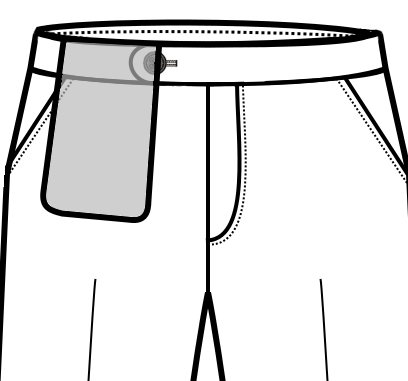
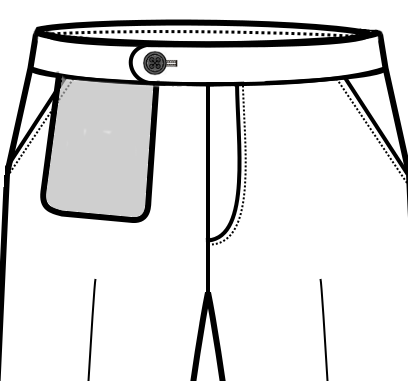
changes

Changed region(s): [[0.1176, 0.0866, 0.4118, 0.231]]

diff --git a/application/controllers/CustomApi.php b/application/controllers/CustomApi.php
@@ -1171,18 +1171,8 @@ class CustomApi extends REST_Controller {
                         "backbeltloop" => "true",
                         "show_buttons" => "true",
                         "overlay" => ["pant_waistbandoverlay.png",  "pant_waistband0001_overlay.png"]
-                    )
-                    , array(
-                        "status" => "0",
-                        "title" => "Standard 2 Hooks",
-                        "elements" => ["pant_waistbandb0001.png",],
-                        "customization_category_id" => "4",
-                        "image" => "pant_elements/waistband/waistband2h.png",
-                        "backbeltloop" => "true",
-                        "show_buttons" => "true",
-                        "adjustmentposition" => "    margin-top: -3px;",
-                        "overlay" => ["pant_waistbandboverlay.png", "pant_waistbandb0001_overlay.png"]
                     ),
+                    
                     array(
                         "status" => "0",
                         "title" => "Center 1 Button",
@@ -1191,16 +1181,6 @@ class CustomApi extends REST_Controller {
                         "image" => "pant_elements/waistband/waistbandc1b.png",
                         "show_buttons" => "true",
                         "overlay" => ["pant_waistband_moverlay.png", "pant_waistband_m1_button.png", "pant_waistband_m0001overlay.png"]
-                    ), array(
-                        "status" => "0",
-                        "title" => "Center 2 Buttons",
-                        "elements" => ["pant_waistband_mb0001.png",],
-                        "customization_category_id" => "4",
-                        "image" => "pant_elements/waistband/waistbandc2b.png",
-                        "backbeltloop" => "true",
-                        "show_buttons" => "true",
-                        "adjustmentposition" => "    margin-top: -3px;",
-                        "overlay" => ["pant_waistband_mboverlay.png", "pant_waistband_m2_button.png"]
                     )
                     , array(
                         "status" => "0",
@@ -1212,20 +1192,10 @@ class CustomApi extends REST_Controller {
                         "show_buttons" => "true",
                         "overlay" => ["pant_waistband_moverlay.png"]
                     )
-                    , array(
-                        "status" => "0",
-                        "title" => "Center 2 Hooks",
-                        "elements" => ["pant_waistband_mb0001.png",],
-                        "customization_category_id" => "4",
-                        "image" => "pant_elements/waistband/waistbandc2h.png",
-                        "backbeltloop" => "true",
-                        "show_buttons" => "true",
-                        "adjustmentposition" => "    margin-top: -3px;",
-                        "overlay" => ["pant_waistband_mboverlay.png"]
-                    ),
+                    , 
                     array(
                         "status" => "0",
-                        "title" => "long 1 Button",
+                        "title" => "Long 1 Button",
                         "customization_category_id" => "4",
                         "elements" => ["pant_waistband_l0001.png"],
                         "image" => "pant_elements/waistband/waistbandl1b.png",
@@ -1233,7 +1203,7 @@ class CustomApi extends REST_Controller {
                         "overlay" => ["pant_waistband_loverlay.png", "pant_waistband_l1_button.png"]
                     ), array(
                         "status" => "0",
-                        "title" => "long 2 Buttons",
+                        "title" => "Long 2 Buttons",
                         "elements" => ["pant_waistband_lb0001.png",],
                         "customization_category_id" => "4",
                         "image" => "pant_elements/waistband/waistbandl2b.png",
@@ -1244,7 +1214,7 @@ class CustomApi extends REST_Controller {
                     )
                     , array(
                         "status" => "0",
-                        "title" => "long 1 Hook",
+                        "title" => "Long 1 Hook",
                         "elements" => ["pant_waistband_l0001.png",],
                         "customization_category_id" => "4",
                         "image" => "pant_elements/waistband/waistbandl1h.png",
@@ -1252,17 +1222,7 @@ class CustomApi extends REST_Controller {
                         "show_buttons" => "true",
                         "overlay" => ["pant_waistband_loverlay.png"]
                     )
-                    , array(
-                        "status" => "0",
-                        "title" => "long 2 Hooks",
-                        "elements" => ["pant_waistband_lb0001.png",],
-                        "customization_category_id" => "4",
-                        "image" => "pant_elements/waistband/waistbandl2h.png",
-                        "backbeltloop" => "true",
-                        "show_buttons" => "true",
-                        "adjustmentposition" => "    margin-top: -3px;",
-                        "overlay" => ["pant_waistband_lboverlay.png"]
-                    )
+                    
                 ],
                 "Front Pocket Style" => [
                     array(
@@ -1328,24 +1288,24 @@ class CustomApi extends REST_Controller {
                     ),
                     array(
                         "status" => "0",
-                        "title" => "One Line Pocket Right Side",
+                        "title" => "One Welt Pocket Right Side Without Button",
                         "customization_category_id" => "4",
-                        "elements" => ["back_pocket_r_line0001.png", "back_pocket_l_button0001.png"],
-                        "image" => "pant_elements/back_pocket/back_r_pocket_line.png",
+                        "elements" => ["back_pocket_r0001.png", ],
+                        "image" => "pant_elements/back_pocket/back_r_pocketwb.png",
                         "show_buttons" => "true",
                     ), array(
                         "status" => "0",
-                        "title" => "One Line Pocket Left Side",
-                        "elements" => ["back_pocket_l_line0001.png", "back_pocket_r_button0001.png"],
+                        "title" => "One Welt Pocket Left Side Without Button",
+                        "elements" => ["back_pocket_l0001.png", ],
                         "customization_category_id" => "4",
-                        "image" => "pant_elements/back_pocket/back_l_pocket_line.png",
+                        "image" => "pant_elements/back_pocket/back_l_pocketwb.png",
                         "show_buttons" => "true",
                     ), array(
                         "status" => "0",
-                        "title" => "2 One Line Pockets",
-                        "elements" => ["back_pocket_r_line0001.png", "back_pocket_l_button0001.png", "back_pocket_l_line0001.png", "back_pocket_r_button0001.png"],
+                        "title" => "2 Welt Pockets Without Buttons",
+                        "elements" => ["back_pocket_r0001.png", "back_pocket_l0001.png", ],
                         "customization_category_id" => "4",
-                        "image" => "pant_elements/back_pocket/back_2_pocket_line.png",
+                        "image" => "pant_elements/back_pocket/back_2_pocketwb.png",
                         "show_buttons" => "true",
                     ),
                 ],
